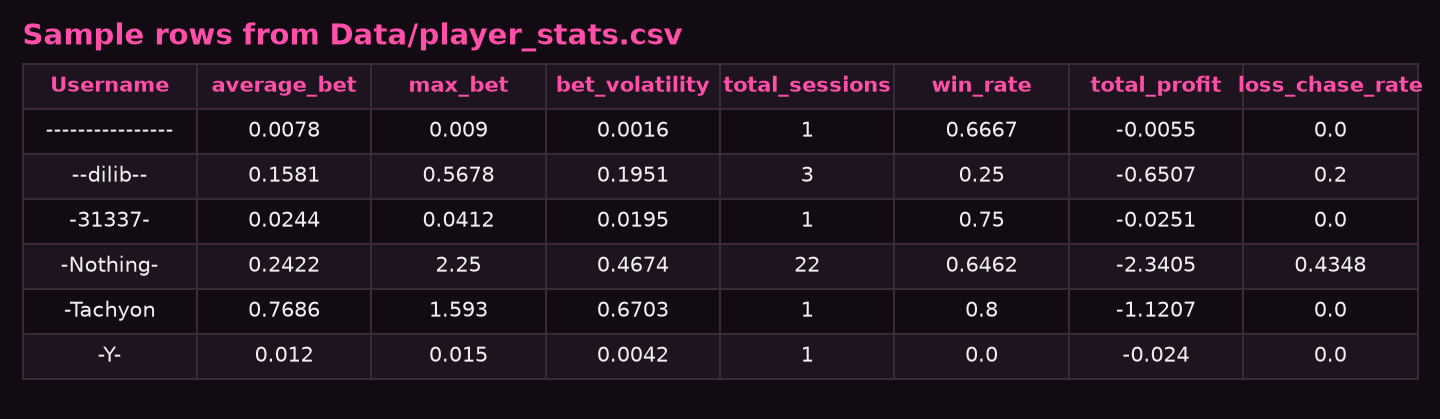
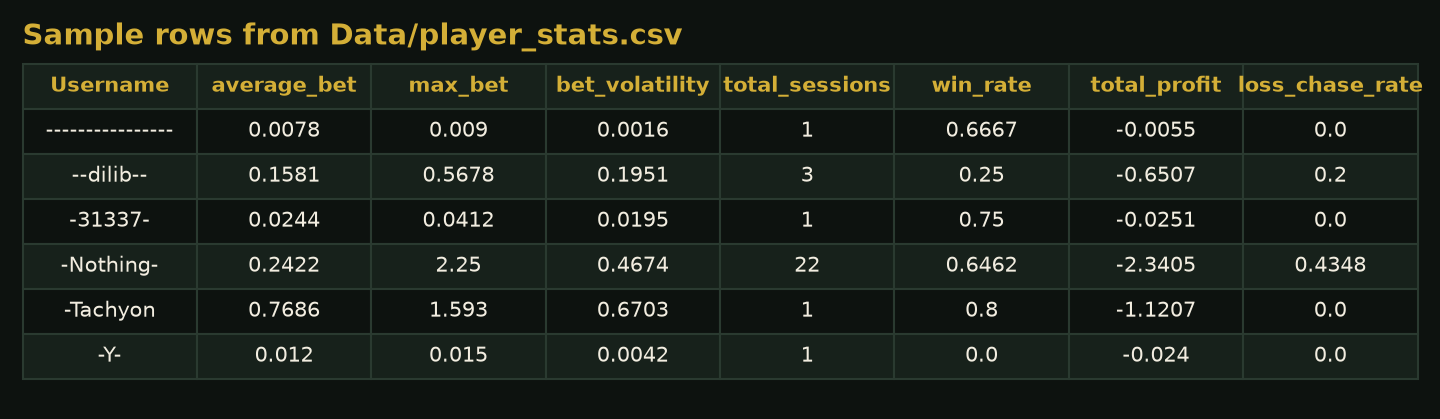
restyle github pages to gold/green poker theme

diff --git a/assets/css/style.scss b/assets/css/style.scss
@@ -3,18 +3,20 @@
 
 // ---------------------------------------------------------------------
 // Fully custom stylesheet — no base theme, no attribution required.
-// Dark background with a poker-table pink/felt accent.
+// Dark casino felt-green background with gold accents.
 // ---------------------------------------------------------------------
 
 :root {
-    --color-primary: #ff4fa8;
-    --color-primary-light: rgba(255, 79, 168, 0.16);
-    --color-text: #f4eef2;
-    --color-text-muted: #b9a9b4;
-    --color-border: #3a2a37;
-    --color-background: #120b14;
-    --color-surface: #1d1420;
-    --color-code-bg: #241827;
+    --color-primary: #d4af37;
+    --color-primary-light: rgba(212, 175, 55, 0.16);
+    --color-accent: #2fae74;
+    --color-red: #e0483e;
+    --color-text: #f2ede0;
+    --color-text-muted: #a89f8c;
+    --color-border: #2a3a30;
+    --color-background: #0d120f;
+    --color-surface: #17211b;
+    --color-code-bg: #1c2620;
 }
 
 * {
@@ -36,15 +38,23 @@ body {
 .page-header {
     padding: 56px 24px 32px 24px;
     text-align: center;
+    background: linear-gradient(180deg, #142019 0%, var(--color-background) 100%);
     border-bottom: 1px solid var(--color-border);
     margin-bottom: 40px;
 }
 
 .suit-row {
-    font-size: 1.6rem;
+    font-size: 1.8rem;
     letter-spacing: 0.5em;
-    color: var(--color-primary);
     margin-bottom: 16px;
+}
+
+.suit-black {
+    color: var(--color-text);
+}
+
+.suit-red {
+    color: var(--color-red);
 }
 
 .page-header h1 {
@@ -82,7 +92,7 @@ body {
 }
 
 .wrapper h3 {
-    color: #d98cba;
+    color: var(--color-accent);
     font-size: 1.15rem;
     margin: 28px 0 12px 0;
 }
@@ -108,17 +118,18 @@ body {
 }
 
 .wrapper a {
-    color: var(--color-primary);
+    color: var(--color-accent);
     font-weight: 600;
     text-decoration: none;
 }
 
 .wrapper a:hover {
     text-decoration: underline;
+    color: var(--color-primary);
 }
 
 .wrapper strong {
-    color: var(--color-text);
+    color: var(--color-primary);
 }
 
 .wrapper hr {
@@ -149,6 +160,7 @@ body {
     border-radius: 4px;
     padding: 2px 6px;
     font-size: 0.9em;
+    color: var(--color-accent);
 }
 
 .wrapper pre {
@@ -163,6 +175,7 @@ body {
     background: none;
     border: none;
     padding: 0;
+    color: var(--color-text);
 }
 
 .wrapper table {
@@ -186,7 +199,7 @@ body {
 }
 
 .wrapper tr:nth-child(even) td {
-    background-color: rgba(255, 255, 255, 0.02);
+    background-color: rgba(212, 175, 55, 0.03);
 }
 
 // ---------------------------------------------------------------------

diff --git a/_layouts/default.html b/_layouts/default.html
@@ -11,7 +11,12 @@
   <body>
 
     <header class="page-header">
-      <div class="suit-row" aria-hidden="true">&spades; &hearts; &diams; &clubs;</div>
+      <div class="suit-row" aria-hidden="true">
+        <span class="suit-black">&spades;</span>
+        <span class="suit-red">&hearts;</span>
+        <span class="suit-red">&diams;</span>
+        <span class="suit-black">&clubs;</span>
+      </div>
       <h1>{{ site.title | default: site.github.repository_name }}</h1>
       <p class="page-subtitle">{{ site.description }}</p>
     </header>
